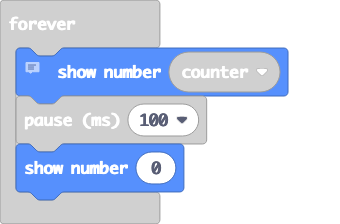
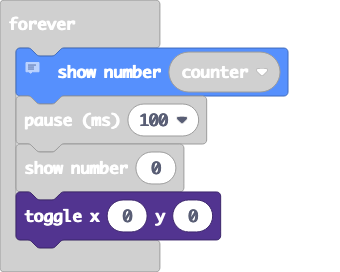
Here is what I changed

diff --git a/main.ts b/main.ts
@@ -21,4 +21,5 @@ basic.forever(function () {
     basic.showNumber(counter)
     basic.pause(100)
     basic.showNumber(0)
+    led.toggle(0, 0)
 })
